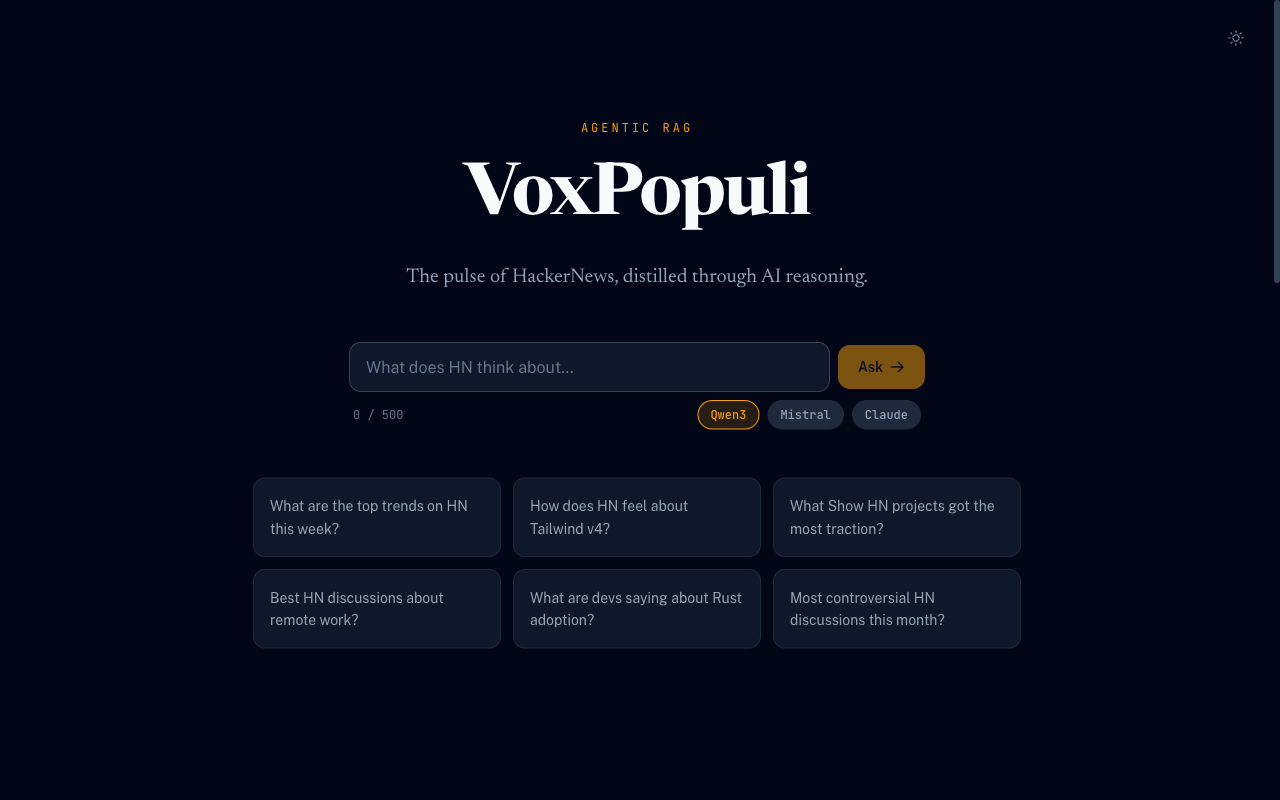
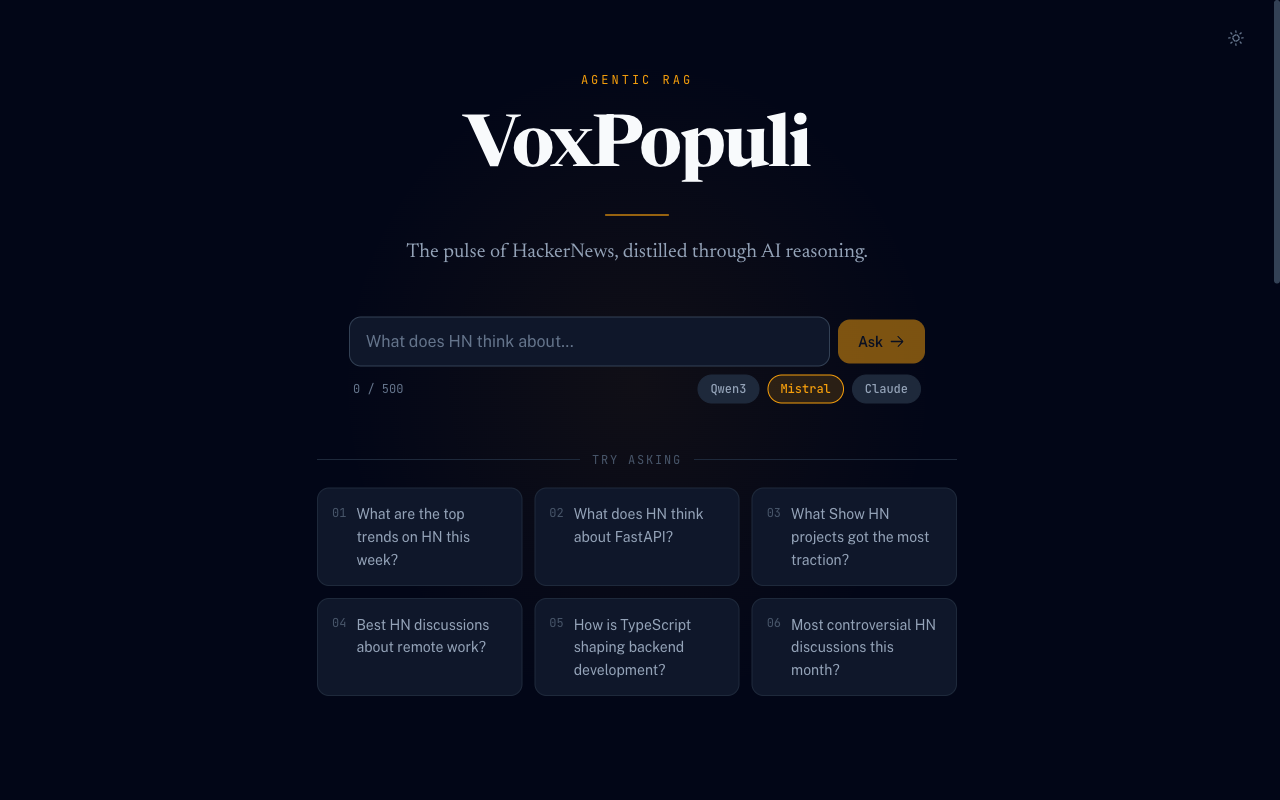
docs: use a product shot as the README hero (#61)

diff --git a/README.md b/README.md
@@ -1,6 +1,6 @@
 <p align="center">
   <a href="https://voxpopuli-web-embx.onrender.com/">
-    <img src="docs/assets/hero.svg" alt="VoxPopuli: what Hacker News actually thinks, with every claim linked to its thread. A brass microphone sends amber threads into a folded newspaper." width="100%">
+    <img src="docs/assets/hero.svg" alt="VoxPopuli: what Hacker News actually thinks, with every claim linked to its thread. Beside the title, the app shows the Retriever, Synthesizer and Writer steps complete for a question." width="100%">
   </a>
 </p>
 
@@ -26,9 +26,9 @@
 The best engineering opinions on Hacker News sit three levels deep in 400 comment threads, and Algolia only matches keywords. I built VoxPopuli to ask a question in plain English and get back what HN actually thinks, with every claim linked to its thread, a note on how strong the evidence is, and a narrated version if you would rather listen.
 
 <p align="center">
-  <img src="docs/screenshots/flow-02-streaming-steps.png" alt="Three agents working through a question live" width="400"/>
+  <img src="docs/screenshots/landing-dark-desktop.png" alt="VoxPopuli homepage with the question box, provider chips and example questions" width="400"/>
   &nbsp;
-  <img src="docs/screenshots/landing-dark-mobile.png" alt="Landing page on a phone" width="140"/>
+  <img src="docs/screenshots/landing-dark-mobile.png" alt="VoxPopuli homepage on a phone" width="140"/>
   &nbsp;
   <img src="docs/screenshots/flow-08-sources.png" alt="Source cards for an answer" width="400"/>
 </p>
